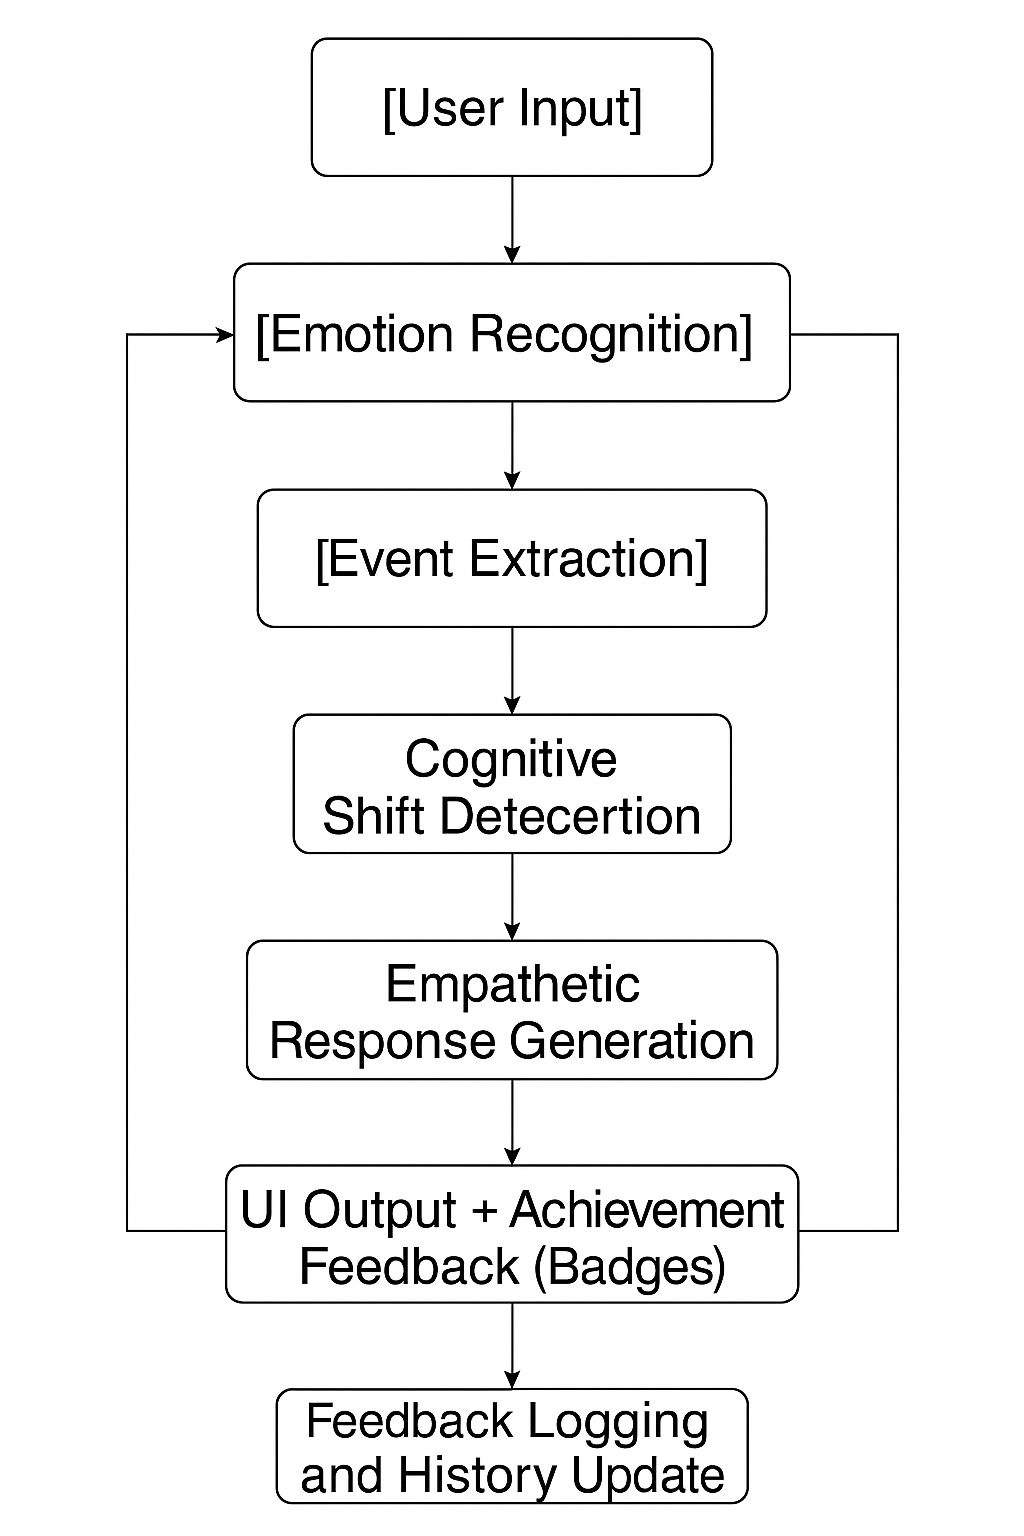
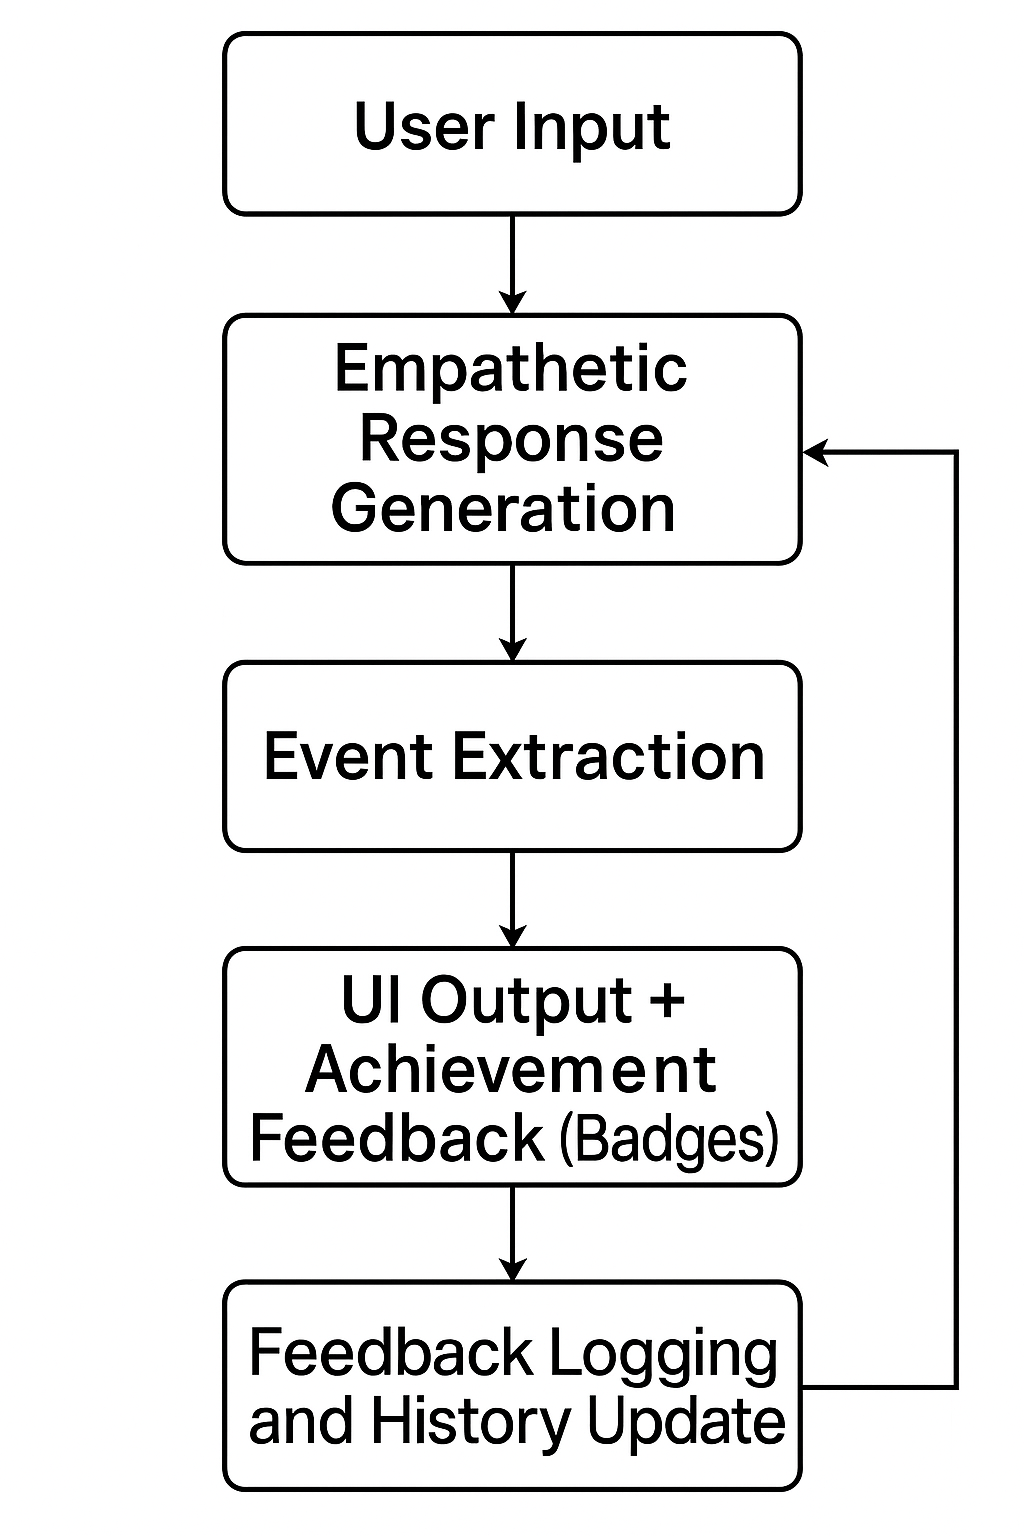
fix: revised version

Changed region(s): [[0.2188, 0.2812, 0.9375, 1.0], [0.2188, 0.0, 0.7812, 0.375], [0.2188, 0.4062, 0.7812, 0.5625]]

diff --git a/docs/smart_app_reports/design.md b/docs/smart_app_reports/design.md
@@ -4,9 +4,7 @@
 
 Zhiji AI Assistant is a WeChat Mini Program designed to provide non-clinical emotional support through natural language interaction. It leverages large language models (LLMs) to serve adolescent users in managing and reflecting on their emotions. This application falls under the following categories:
 
-- Affective Computing Application  
-- Conversational AI System  
-- Mobile Psychological Support Tool  
+- Mental Health Chatbot
 - Lightweight Emotional Wellness Platform
 
 ## 2. Motivation
@@ -32,18 +30,14 @@ User input is processed through parallel LLM-based modules and then synthesized 
 ```
 [ User Input ]
 ↓
-[ Emotion Recognition ] ←→ [ Event Extraction ]
-↓                      ↓
-[ Cognitive Shift Detection ]
-↓
-[ Empathetic Response Generation ]
+[ Empathetic Response Generation ] ←→ [ Event Extraction ]
 ↓
 [ UI Output + Achievement Feedback (Badges) ]
 ↓
 [ Feedback Logging and History Update ]
 ```
 
- *Figure 1: System architecture diagram (image placeholder)* 
+ *Figure 1: System architecture diagram*
 
 <img src="./images/system_architecture.png" alt="System Architecture" style="zoom: 25%;" />
 
@@ -53,10 +47,9 @@ The design adopts an instant messaging style interface to maximize user familiar
 
 - **Top navigation bar**: Access to history, emotion review, and badge panel
 - **Main conversation area**: User and AI messages
-- **Emotional thermometer**: Displays real-time emotion classification and intensity
 - **Input box**: For free-text message composition
 
- *Figure 2: UI sketch placeholder* 
+ *Figure 2: UI sketch * 
 
 <img src="./images/ui_chat_screen.png" alt="Chat UI Mockup" style="zoom:50%;" />
 
@@ -64,13 +57,12 @@ The design adopts an instant messaging style interface to maximize user familiar
 
 ### 4.1 Functional Modules
 
-| Module                    | Description                                               |
-| ------------------------- | --------------------------------------------------------- |
-| Emotion Recognition       | Classifies emotion types and intensity from user messages |
-| Event Extraction          | Identifies psychologically significant event elements     |
-| Cognitive Shift Detection | Compares current and historical input to identify growth  |
-| Empathetic Response       | Generates non-judgmental supportive feedback              |
-| Badge System              | Rewards users for positive cognitive reflection           |
+| Module              | Description                                               |
+| ------------------- | --------------------------------------------------------- |
+| Emotion Recognition | Classifies emotion types and intensity from user messages |
+| Empathetic Response | Generates non-judgmental supportive feedback              |
+| Event Extraction    | Identifies psychologically significant event elements     |
+| Badge System        | Rewards users for positive cognitive reflection           |
 
 *Figure 3: Badge system and Event system UI* 
 
